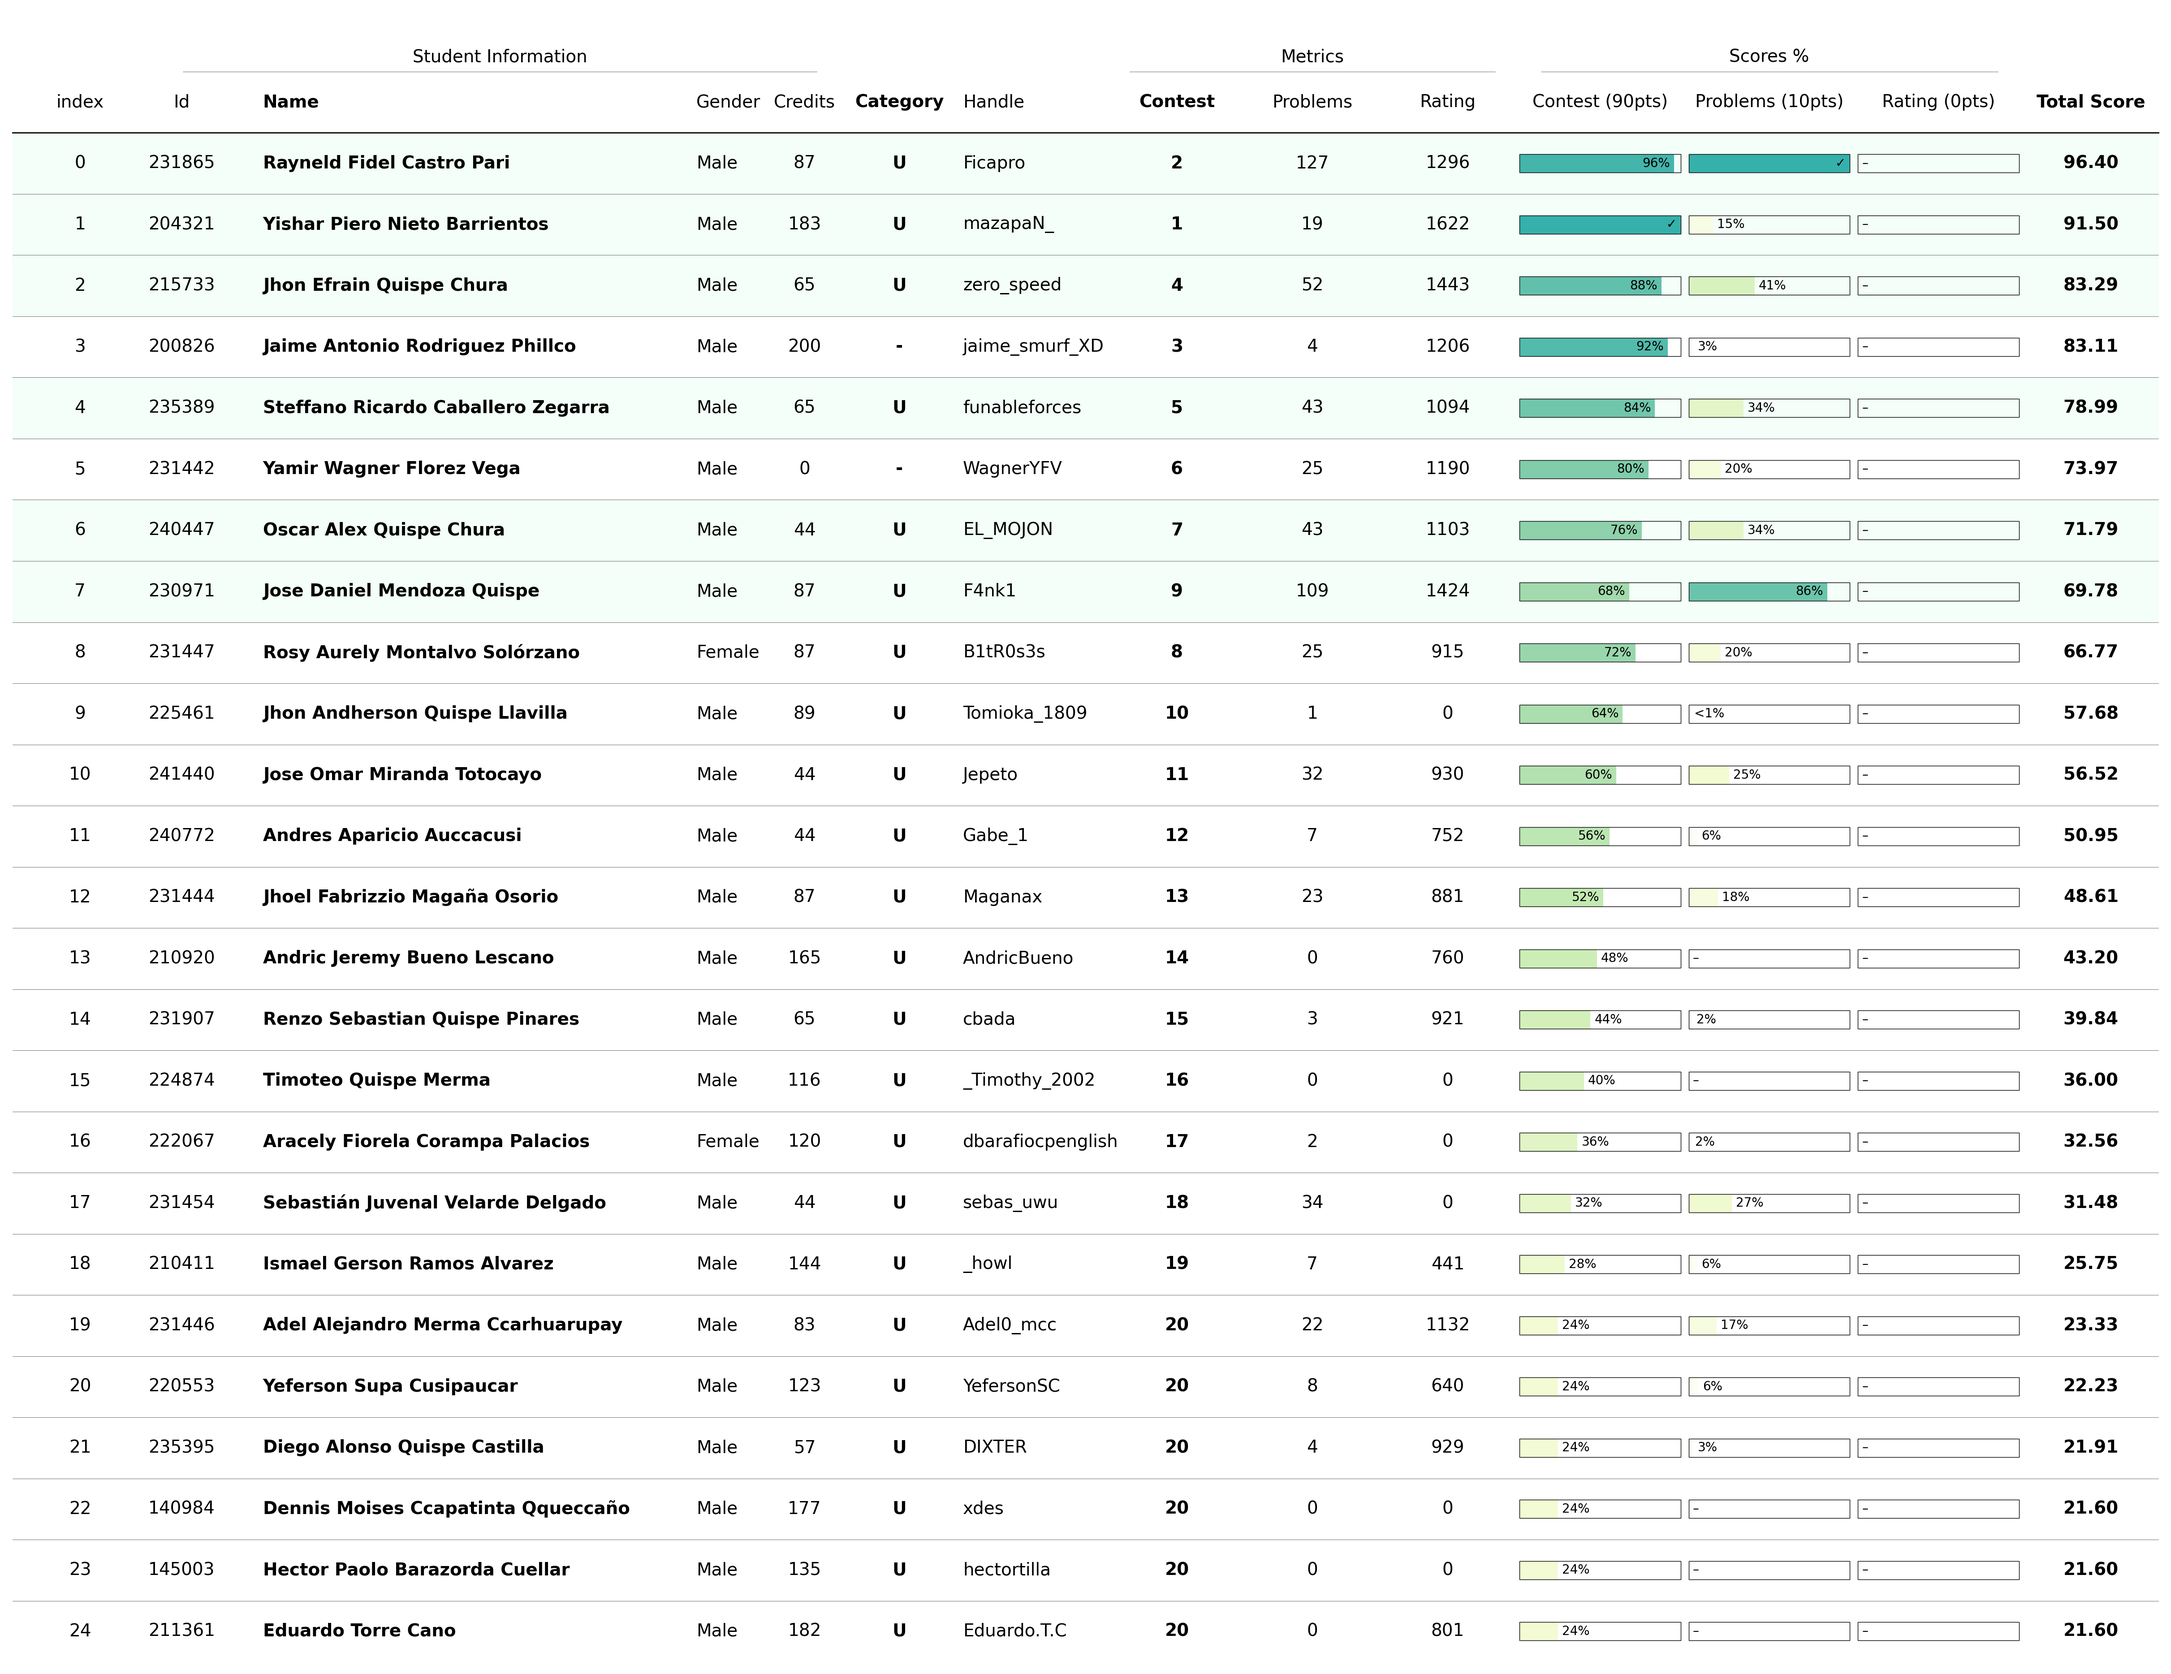
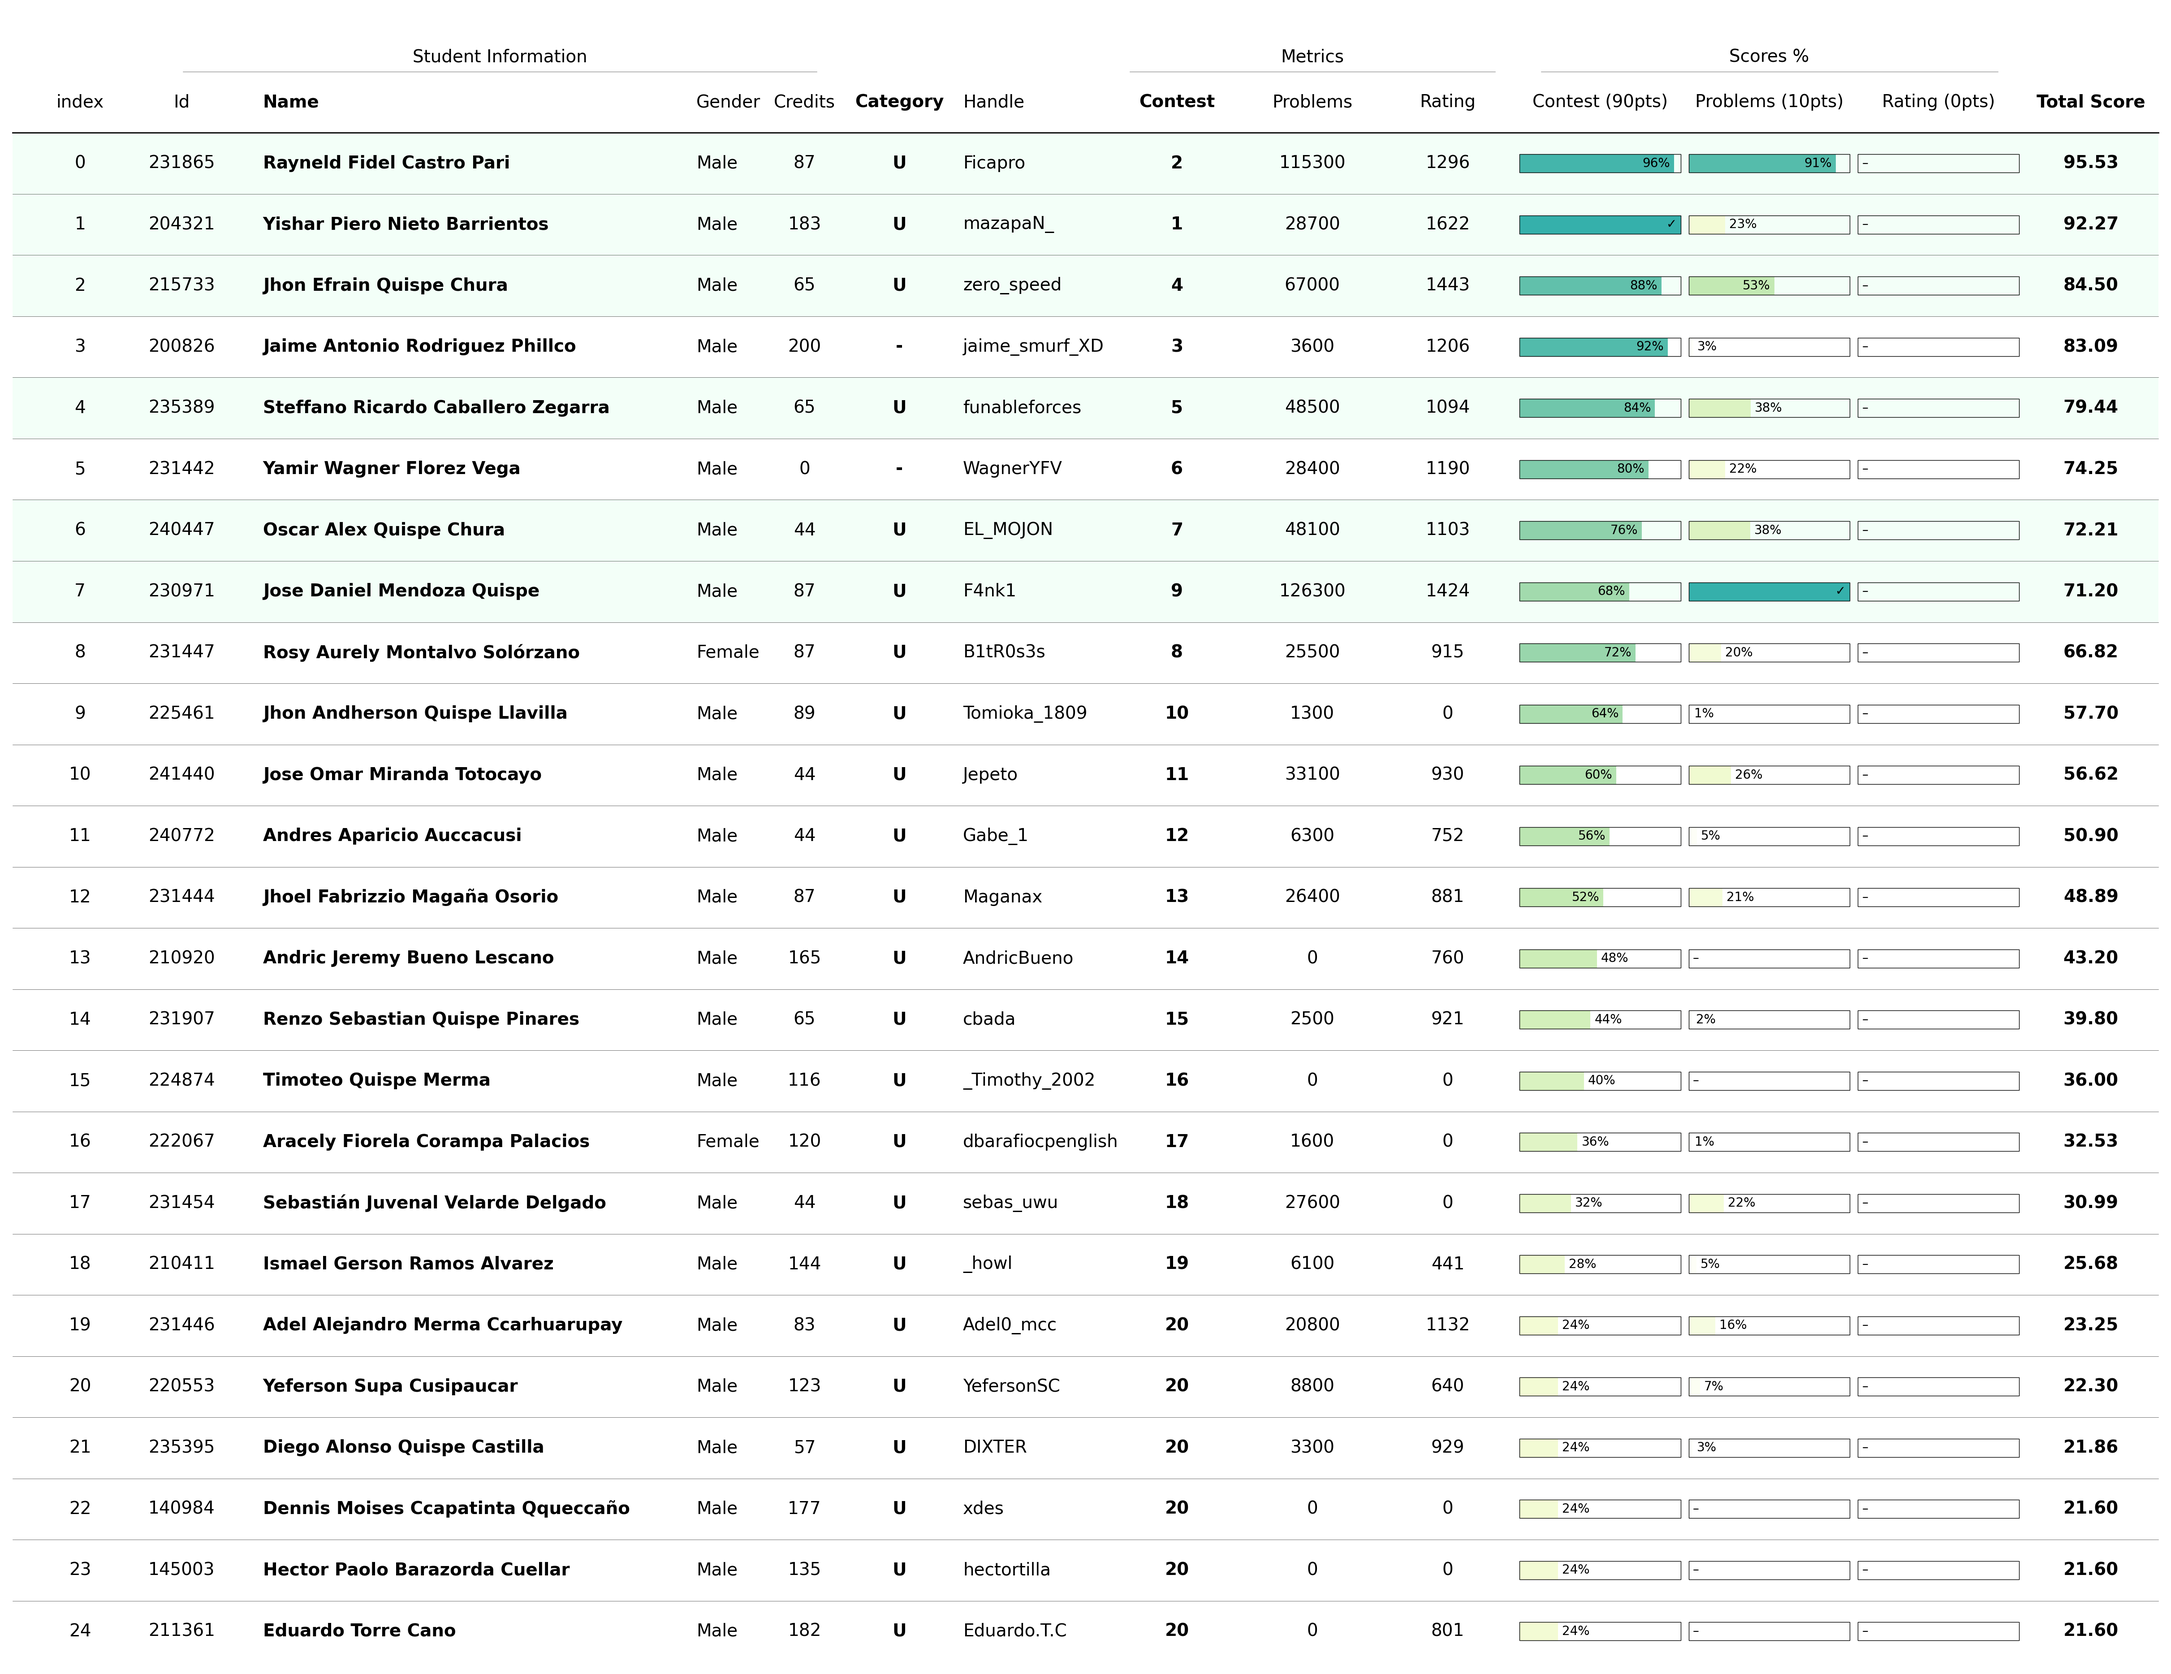
update ranking

Changed region(s): [[0.7792, 0.0931, 0.8727, 0.1552], [0.7792, 0.3415, 0.8727, 0.3726], [0.5922, 0.3415, 0.6233, 0.3726]]

diff --git a/ranking/ranking.py b/ranking/ranking.py
@@ -115,15 +115,15 @@ class User:
             # Accumulate problem rating avoid duplicates
             if  key not in problemSolved and submissions['verdict'] == "OK" and "rating" in submissions["problem"]:      
                 # Use Rating instead of just count
-                # self.totalRatingSolvedProblems += submissions["problem"]["rating"]
-                self.totalRatingSolvedProblems += 1
+                self.totalRatingSolvedProblems += submissions["problem"]["rating"]
+                # self.totalRatingSolvedProblems += 1
                 problemSolved[key] = True
 
             # Training contest problems have 1000 of raiting
             if  key not in problemSolved and "rating" not in submissions["problem"]:
                 # Use Rating instead of just count
-                # self.totalRatingSolvedProblems += 1000
-                self.totalRatingSolvedProblems += 1
+                self.totalRatingSolvedProblems += 1000
+                # self.totalRatingSolvedProblems += 1
                 problemSolved[key] = True
 
 class Ranking:
